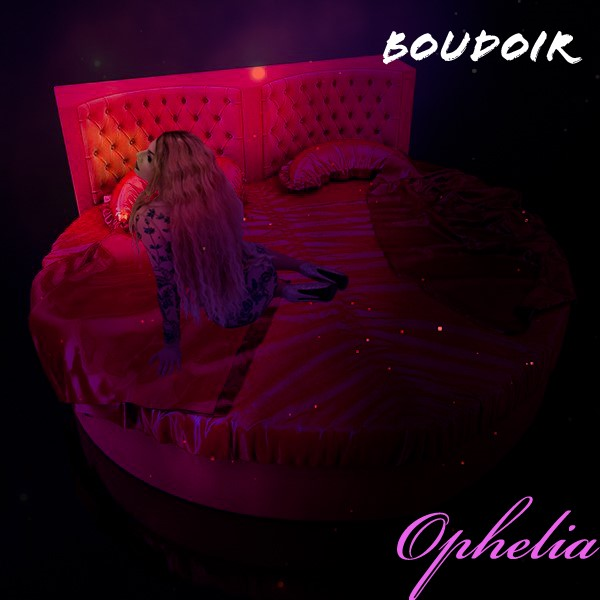
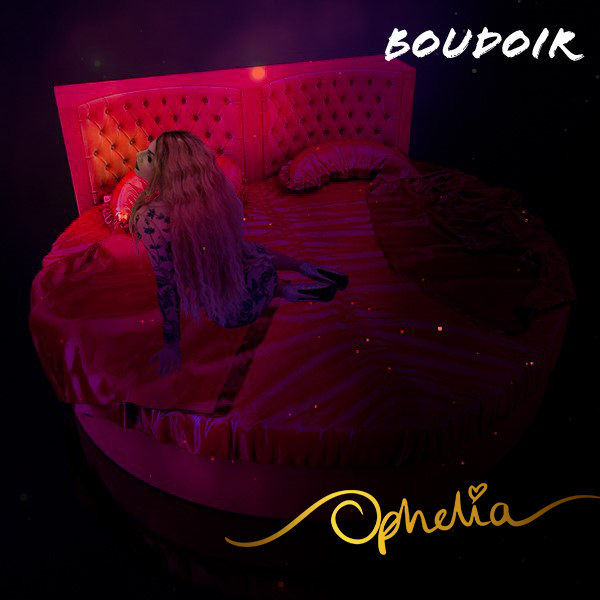
Add files via upload
final website

Changed region(s): [[0.45, 0.81, 1.0, 1.0], [0.63, 0.03, 0.99, 0.12], [0.39, 0.9, 0.45, 0.93]]

diff --git a/index.html b/index.html
@@ -29,21 +29,30 @@
         <div class="info">
             <div class="social">
                 <div class="background_social" alt="pink_stars"></div>
-                <img class="twitter" src= "./temp_twit.jpg" alt="twitter">
+                <img class="twitter" src="./twit.jpg" alt="twitter">
 
 
             </div>
             <div class="bio">
+                <div class="about_me">
+                </div>
+                <p>Ophelia is a singer, songwriter and philanthropist situated in the UK, over the past few years
+                    she has released multiple successful albums, toured the world with extravagant shows and engaged
+                    in LGBTQ+ activism across the globe.</p>
             </div>
-        </div>
-    <div class="middle">
-        <h1 class="Boudoir_out">Boudoir out now!</h1>
-        <div class="album_ad_back" alt="boudour_background"></div>
-        <div class="album_ad" alt="boudoir_advert">
-            <img class="boudoir" src= "./album_boudoir.jpg">
-        </div>
 
         </div>
+        <div class="middle">
+            <h1 class="boudoir_out">Boudoir out now!</h1>
+            <div class="album_ad_back" alt="boudour_background"></div>
+            <div class="album_ad" alt="boudoir_advert">
+                <img class="boudoir" src="./album_boudoir.jpg">
+            </div>
+
+        </div>
+    </div>
+    <div class=bottom>
+        <img src="./logo.png" alt="ophelia_logo" height="300px" width="1500px">
     </div>
 
 </body>

diff --git a/news.html b/news.html
@@ -21,9 +21,25 @@
     </div>
     <div class="nav_bar">
         <a href="index.html">Home</a>
-        <a href="">Store</a>
-        <a href="">News</a>
-<body>
-    
+        <a href="store.html">Store</store></a>
+        <a href="news.html">News</news></a>
+        
+    </div>
+    <div class="main">
+        <div class="store_mid">
+            <h1 class="boudoir_out">After a long recording process, Boudoir is finally out to the masses! The album has
+                been described by NME Magazine as "A natural blend of disco synths and sexy club beats (3.5/5)."
+                Available from all good retailers now and streaming on all platforms! </h1>
+            <div class="album_ad_back" alt="boudour_background"></div>
+            <div class="album_ad" alt="boudoir_advert">
+                <img class="boudoir" src="./album_boudoir.jpg">
+            </div>
+
+        </div>
+    </div>
+    <div class=bottom>
+        <img src="./logo.png" alt="ophelia_logo" height="300px" width="1500px">
+    </div>
 </body>
+
 </html>

diff --git a/index.css b/index.css
@@ -70,13 +70,13 @@ body {
     height: 400px;
     width: 310px;
     background-color: black;
-    opacity: 0.4;
+    opacity: 0.5;
 }
 .bio {
     height: 400 px;
     width: 600px;
     background-color: black;
-    opacity: 0.4;
+    opacity: 0.5;
 }
 
 .middle {
@@ -84,6 +84,7 @@ body {
     width: 100%;
     height: 800px;
     margin-top: 10px;
+    
 
 }
 .album_ad_back {
@@ -93,18 +94,38 @@ body {
     width:100%;
     height: 800px;
     background-color: black;
-    opacity: 0.4;
+    opacity: 0.5;
 }
 
 .album_ad {
     position:absolute;
-    top: 12%;
+    top: 15%;
     left: 29%;
 }
 p {
     color: rgba(216, 184, 2, 0.863);
     font-size:xx-large;
+
 }
 h1 {
     color: rgba(216, 184, 2, 0.863);
+    opacity: 0.5;
+}
+
+.store_mid {
+    position: relative;
+    width: 100%;
+    height: 800px;
+    margin-top: 10px;
+}
+
+.boudoir_out {
+    text-align: center;
+}
+
+.bottom {
+    display: flex;
+    width: 100%;
+    height: 400px;
+    justify-content: center;
 }

diff --git a/store.html b/store.html
@@ -21,9 +21,24 @@
     </div>
     <div class="nav_bar">
         <a href="index.html">Home</a>
-        <a href="">Store</a>
-        <a href="">News</a>
-<body>
-    
+        <a href="store.html">Store</store></a>
+        <a href="news.html">News</news></a>
+        
+    </div>
+    <div class="main">
+        <div class="middle">
+            <h1 class="boudoir_out">Boudoir out now! Order from Amazon or any other glamour respecting retailer.</h1>
+            <div class="album_ad_back" alt="boudour_background">
+            </div>
+            <div class="album_ad" alt="boudoir_advert">
+                <img class="boudoir" src="./album_boudoir.jpg">
+            </div>
+
+        </div>
+    </div>
+    <div class=bottom>
+        <img src="./logo.png" alt="ophelia_logo" height="300px" width="1500px">
+    </div>
 </body>
+
 </html>
